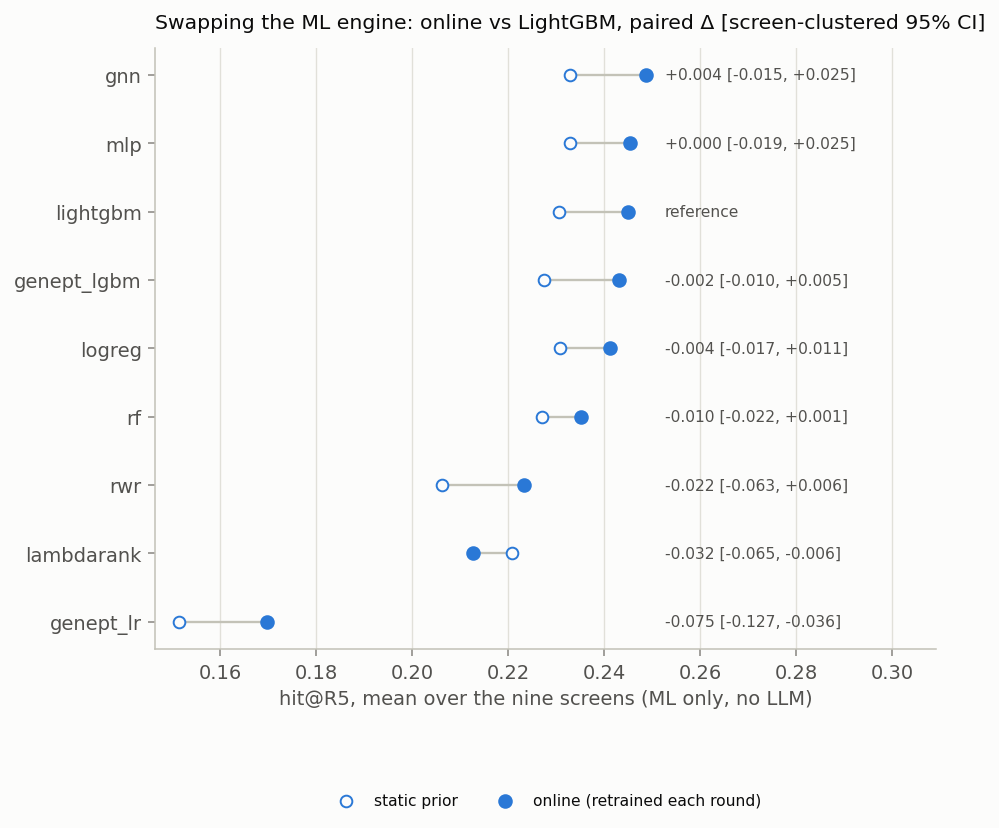
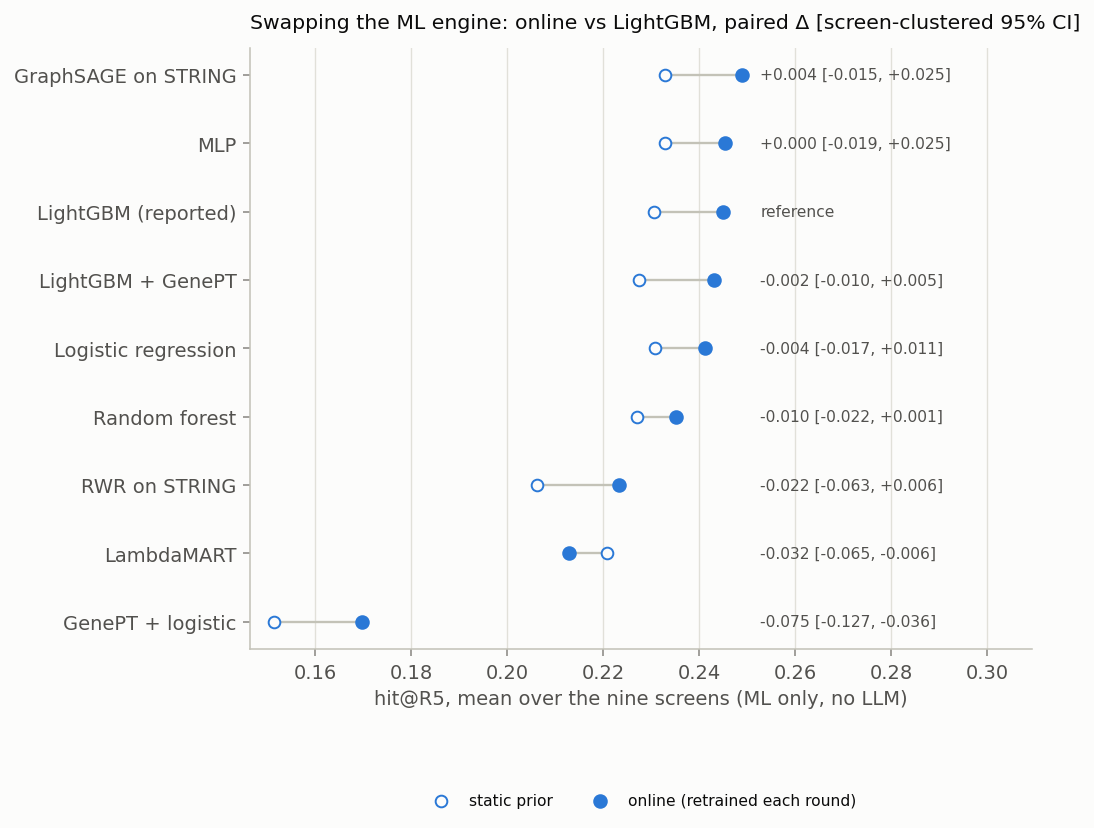
docs(paper): alternative ML engines and acquisition rules (step 8)
Appendix "Is LightGBM the right ML engine?": Table tab:engines (eight
alternative engines, static and online, paired deltas), Figure fig:engines,
acquisition rules, the two closest engines in the full GPT C-arm, the
label-permutation controls, and the post-hoc label-free DepMap ranking
(0.234; the full system beats it by +0.026 [-0.018, +0.070], 7/0/2).

Main text:
- one sentence where LightGBM is introduced: no alternative engine improves
  on it, the two closest leave the full system unchanged;
- the "removing the LLM branch changes almost nothing (+0.001)" bullet now
  says "costs little" and separates the legacy-configuration +0.001 from the
  reported configuration's +0.015 [+0.003, +0.026] over its own ML engine;
- Related work adds DiscoBAX, Many Needles (Probability-of-Hit), IterPert,
  and AssayLoop as the closest concurrent work (cross-screen policy + LLM
  priors), and narrows "all prior work learns within one experiment".

Nine new references; 50 pages, compiles clean. Not changed, pending a
decision: whether the DepMap baseline should reshape the main claims.

diff --git a/waddington_select/analysis/ml_engines.py b/waddington_select/analysis/ml_engines.py
@@ -240,6 +240,11 @@ def carm_summary() -> dict:
     return out
 
 
+DISPLAY = {"lightgbm": "LightGBM (reported)", "gnn": "GraphSAGE on STRING", "mlp": "MLP",
+           "genept_lgbm": "LightGBM + GenePT", "logreg": "Logistic regression", "rf": "Random forest",
+           "rwr": "RWR on STRING", "lambdarank": "LambdaMART", "genept_lr": "GenePT + logistic"}
+
+
 def figure(res: dict) -> Path:
     import matplotlib.pyplot as plt
     from . import style as S
@@ -266,7 +271,7 @@ def figure(res: dict) -> Path:
             d = on.get("vs_lightgbm_online")
             tag = "reference" if d is None else f"{d['delta']:+.3f} [{d['ci95'][0]:+.3f}, {d['ci95'][1]:+.3f}]"
             ax.annotate(tag, (label_x, yi), va="center", fontsize=8, color=S.INK_2)
-    ax.set_yticks(y, models)
+    ax.set_yticks(y, [DISPLAY.get(m, m) for m in models])
     ax.set_xlabel("hit@R5, mean over the nine screens (ML only, no LLM)")
     ax.set_title("Swapping the ML engine: online vs LightGBM, paired Δ [screen-clustered 95% CI]",
                  color=S.INK, fontsize=10.5, loc="left", pad=10)
